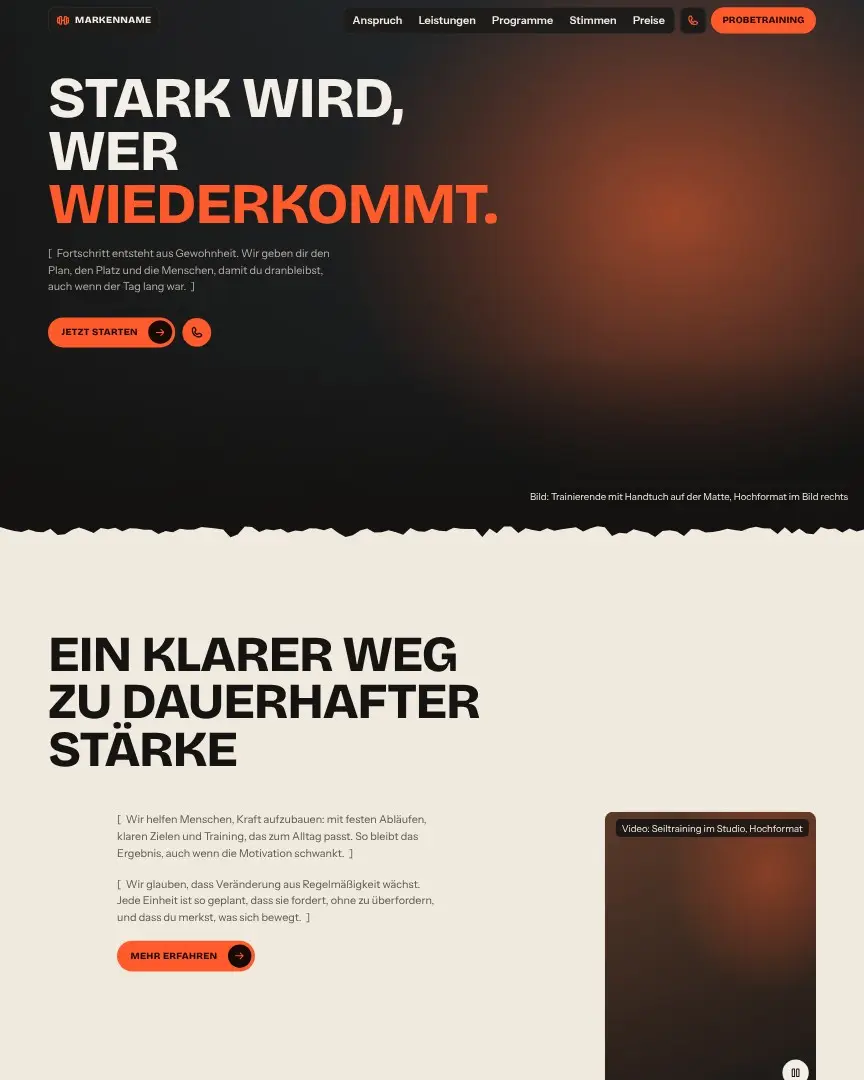
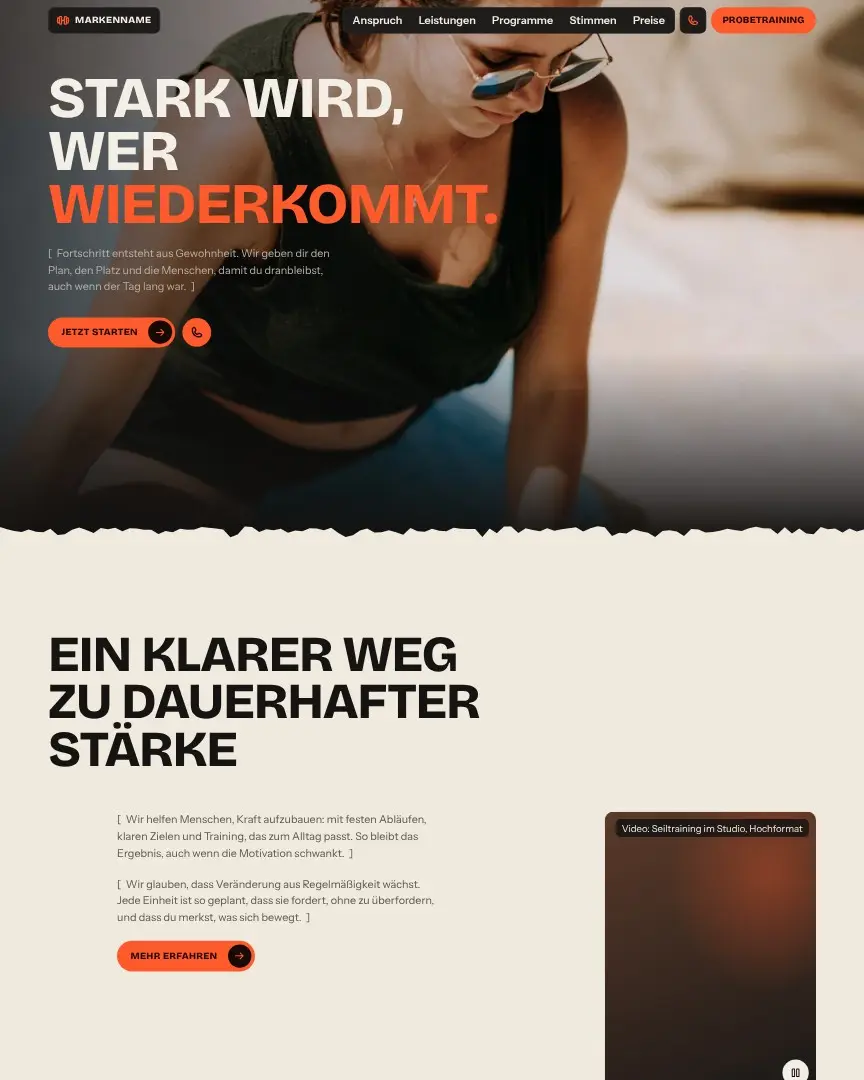
Bibliothek t55: Beispielfotos (Unsplash) eingebaut, Vorschaubilder neu erzeugt
Claude-Session: https://claude.ai/code/session_01DoGuL1bwF3ewggMgZ4Cpvd

diff --git a/skills/webdesign-conversion/assets/vorlagen/bibliothek/t55/index.html b/skills/webdesign-conversion/assets/vorlagen/bibliothek/t55/index.html
@@ -65,7 +65,7 @@
   <!-- 1. Held: Vollbild im Dunkeln, Überschrift oben links, Zackenkante unten -->
   <section class="held" id="top" aria-labelledby="h-held">
     <div class="held__grund">
-      <div class="bild held__bild bild--a" data-platzhalter="Bild: Trainierende mit Handtuch auf der Matte, Hochformat im Bild rechts" role="img" aria-label="Platzhalter für ein Foto einer Person, die nach dem Training am Hantelbereich sitzt"></div>
+      <div class="bild held__bild bild--a"><img src="bilder/frau-auf-yogamatte.webp" width="1000" height="1499" alt="Frau dehnt sich auf einer blauen Yogamatte" loading="lazy" decoding="async"></div>
       <div class="held__schleier" aria-hidden="true"></div>
     </div>
     <div class="wrap held__innen">
@@ -133,35 +133,35 @@
         <details class="prog" data-zeig open>
           <summary><span class="prog__nr" aria-hidden="true">01</span><span class="prog__titel">Kraft aufbauen, Leistung steigern</span></summary>
           <div class="prog__inhalt">
-            <div class="bild bild--b prog__bild" data-platzhalter="Bild: Athlet an der Klimmzugstange, Studiolicht" role="img" aria-label="Platzhalter für ein Foto eines Athleten an der Klimmzugstange"></div>
+            <div class="bild bild--b prog__bild"><img src="bilder/klimmzug-rueckenansicht.webp" width="1000" height="667" alt="Mann beim Klimmzug an der Stange, Rückenansicht" loading="lazy" decoding="async"></div>
             <div class="prog__fuss"><p class="klammer">Ganzkörpertraining mit steigender Last, das Muskeln aufbaut, Kraft entwickelt und die Technik festigt.</p><p class="prog__dauer"><span class="punkt" aria-hidden="true"></span>14 Wochen</p></div>
           </div>
         </details>
         <details class="prog" data-zeig>
           <summary><span class="prog__nr" aria-hidden="true">02</span><span class="prog__titel">Ausdauer stärken, Alltag leichter machen</span></summary>
           <div class="prog__inhalt">
-            <div class="bild bild--c prog__bild" data-platzhalter="Bild: Läuferin auf dem Laufband" role="img" aria-label="Platzhalter für ein Foto einer Läuferin auf dem Laufband"></div>
+            <div class="bild bild--c prog__bild"><img src="bilder/laufbaender-reihe.webp" width="1000" height="667" alt="Reihe von Laufbändern im Fitnessstudio" loading="lazy" decoding="async"></div>
             <div class="prog__fuss"><p class="klammer">Grundlagenausdauer und Intervalle, die Puls und Erholung verbessern, ohne auszubrennen.</p><p class="prog__dauer"><span class="punkt" aria-hidden="true"></span>10 Wochen</p></div>
           </div>
         </details>
         <details class="prog" data-zeig>
           <summary><span class="prog__nr" aria-hidden="true">03</span><span class="prog__titel">Beweglicher werden mit funktionellem Training</span></summary>
           <div class="prog__inhalt">
-            <div class="bild bild--d prog__bild" data-platzhalter="Bild: Kniebeuge mit Kettlebell" role="img" aria-label="Platzhalter für ein Foto einer Kniebeuge mit Kettlebell"></div>
+            <div class="bild bild--d prog__bild"><img src="bilder/kniebeuge-kettlebell.webp" width="1000" height="668" alt="Frau macht eine Kniebeuge mit einer Kettlebell" loading="lazy" decoding="async"></div>
             <div class="prog__fuss"><p class="klammer">Bewegungsqualität, Stabilität und Gelenkkontrolle, aufgebaut Schritt für Schritt.</p><p class="prog__dauer"><span class="punkt" aria-hidden="true"></span>8 Wochen</p></div>
           </div>
         </details>
         <details class="prog" data-zeig>
           <summary><span class="prog__nr" aria-hidden="true">04</span><span class="prog__titel">Rumpf kräftigen, Halt gewinnen</span></summary>
           <div class="prog__inhalt">
-            <div class="bild bild--a prog__bild" data-platzhalter="Bild: Unterarmstütz auf der Matte" role="img" aria-label="Platzhalter für ein Foto eines Unterarmstützes auf der Matte"></div>
+            <div class="bild bild--a prog__bild"><img src="bilder/unterarmstuetz-wohnzimmer.webp" width="1000" height="563" alt="Frau im Unterarmstütz auf dem Boden" loading="lazy" decoding="async"></div>
             <div class="prog__fuss"><p class="klammer">Rumpftraining für aufrechte Haltung, weniger Rückenbeschwerden und mehr Kraftübertragung.</p><p class="prog__dauer"><span class="punkt" aria-hidden="true"></span>6 Wochen</p></div>
           </div>
         </details>
         <details class="prog" data-zeig>
           <summary><span class="prog__nr" aria-hidden="true">05</span><span class="prog__titel">Grenzen verschieben, neue Stufen erreichen</span></summary>
           <div class="prog__inhalt">
-            <div class="bild bild--b prog__bild" data-platzhalter="Bild: Gewichtheber beim Reißen" role="img" aria-label="Platzhalter für ein Foto eines Gewichthebers beim Reißen"></div>
+            <div class="bild bild--b prog__bild"><img src="bilder/kreuzheben-langhantel.webp" width="1000" height="667" alt="Frau greift eine Langhantel zum Kreuzheben" loading="lazy" decoding="async"></div>
             <div class="prog__fuss"><p class="klammer">Fortgeschrittenenprogramm mit Periodisierung, Testtagen und individuellen Zielwerten.</p><p class="prog__dauer"><span class="punkt" aria-hidden="true"></span>16 Wochen</p></div>
           </div>
         </details>
@@ -173,7 +173,7 @@
   <!-- 5. Vorteile: Bild links, Überschrift, Zeilen mit Kennzahlen rechts -->
   <section class="sektion hell vorteile riss" id="vorteile" aria-labelledby="h-vorteile">
     <div class="wrap vorteile__raster">
-      <div class="bild bild--a vorteile__bild" data-platzhalter="Bild: Trainer mit Kurzhanteln, Hochformat" role="img" aria-label="Platzhalter für ein Foto eines Trainers mit Kurzhanteln" data-zeig></div>
+      <div class="bild bild--a vorteile__bild" data-zeig><img src="bilder/hanteln-sonnenlicht.webp" width="1000" height="563" alt="Reihe von Hanteln im Fitnessstudio mit Sonnenlicht" loading="lazy" decoding="async"></div>
       <div class="vorteile__text">
         <h2 id="h-vorteile" data-licht>Was Mitglieder weiterbringt</h2>
         <p class="klammer" data-zeig>Ein Umfeld mit festem Plan, ehrlichem Feedback und Menschen, die dich sehen: damit Kraft, Ausdauer und Selbstvertrauen stetig wachsen.</p>
@@ -202,7 +202,7 @@
         <figure class="wandel-karte wandel-karte--d" data-zeig>
           <figcaption>Sarah M.</figcaption>
           <blockquote class="klammer">Ich kam, um etwas zu verändern, und habe mehr bekommen: Energie, Kraft und ein neues Selbstbild.</blockquote>
-          <div class="bild bild--d" data-platzhalter="Bild: Klimmzug an der Station" role="img" aria-label="Platzhalter für ein Foto eines Klimmzugs an der Station"></div>
+          <div class="bild bild--d"><img src="bilder/klimmzug-halle-rot.webp" width="1000" height="623" alt="Mann im roten Top beim Klimmzug in der Trainingshalle" loading="lazy" decoding="async"></div>
         </figure>
         <div class="wandel-text" data-zeig>
           <p class="klammer">Echte Mitglieder, echte Ergebnisse: aufgebaut mit regelmäßigem Training, kluger Betreuung und einem Umfeld, das trägt. Jede Reise sieht anders aus.</p>
@@ -269,7 +269,7 @@
       </div>
       <div class="ratgeber__raster" data-staffel data-beispiel>
         <article class="beitrag beitrag--gross" data-zeig>
-          <div class="bild bild--c beitrag__bild" data-platzhalter="Bild: Bauchtrainer auf dem Boden" aria-hidden="true"></div>
+          <div class="bild bild--c beitrag__bild"><img src="bilder/haende-auf-matte.webp" width="800" height="533" alt="Hände auf einer Trainingsmatte" loading="lazy" decoding="async"></div>
           <div class="beitrag__text">
             <h3><a href="#ratgeber">Kraft aufbauen mit klügerem Training</a></h3>
             <p class="klammer">Wie geplante Einheiten, steigende Last und Erholung zusammen Kraft entstehen lassen, sicher und messbar.</p>
@@ -277,12 +277,12 @@
           </div>
         </article>
         <article class="beitrag" data-zeig>
-          <div class="bild bild--a beitrag__bild" data-platzhalter="Bild: Trinkflasche und Handtuch" aria-hidden="true"></div>
+          <div class="bild bild--a beitrag__bild"><img src="bilder/haende-auf-schwarzer-matte.webp" width="800" height="1200" alt="Hände und Füße auf einer schwarzen Matte" loading="lazy" decoding="async"></div>
           <h3><a href="#ratgeber">Ernährungsgewohnheiten, die Ergebnisse tragen</a></h3>
           <p class="beitrag__meta"><span class="punkt" aria-hidden="true"></span>Autorin Beispiel, TT.MM.JJJJ</p>
         </article>
         <article class="beitrag" data-zeig>
-          <div class="bild bild--d beitrag__bild" data-platzhalter="Bild: Dehnübung auf der Matte" aria-hidden="true"></div>
+          <div class="bild bild--d beitrag__bild"><img src="bilder/hund-uebung-matte.webp" width="800" height="1200" alt="Frau macht eine Übung auf der Matte neben einem Trainingsgerät" loading="lazy" decoding="async"></div>
           <h3><a href="#ratgeber">Warum Erholung langfristig mehr bringt als noch ein Satz</a></h3>
           <p class="beitrag__meta"><span class="punkt" aria-hidden="true"></span>Autor Beispiel, TT.MM.JJJJ</p>
         </article>

diff --git a/skills/webdesign-conversion/assets/vorlagen/bibliothek/t55/BILDER.md b/skills/webdesign-conversion/assets/vorlagen/bibliothek/t55/BILDER.md
@@ -1,0 +1,32 @@
+# Bilder t55
+
+Alle Fotos von Unsplash, abgerufen am 25.11.2026. Titel und Lizenz stehen so auf der Seite des Fotos (Titel von Unsplash automatisch vergeben), als Fotograf ist das Unsplash Profil angegeben, weil die Seite den Namen nur als Profillink zeigte. Lizenz ist jeweils die Unsplash Lizenz.
+
+| Datei | Platz | Foto Titel | Fotograf (Profil) | Seite | Lizenz | Abruf |
+|---|---|---|---|---|---|---|
+| frau-auf-yogamatte.webp.webp | Hero | Frau macht Übungen auf blauer Yogamatte | anniespratt | https://unsplash.com/photos/ZPipF7_quQU | Unsplash Lizenz | 25.11.2026 |
+| klimmzug-rueckenansicht.webp.webp | Programm 1 (Klimmzugstange) | Oben-ohne-Mann in schwarzen Shorts mit orangefarbener Stange | visualsbyroyalz | https://unsplash.com/photos/IZw5zLHMfd4 | Unsplash Lizenz | 25.11.2026 |
+| laufbaender-reihe.webp.webp | Programm 2 (Laufband) | Laufbänder im Fitnessstudio | rdehamer | https://unsplash.com/photos/pCT8ag1o3nU | Unsplash Lizenz | 25.11.2026 |
+| kniebeuge-kettlebell.webp.webp | Programm 3 (Kettlebell) | Eine Frau mit einem Wasserkocher in einem Fitnessstudio | meaganstonephotography | https://unsplash.com/photos/r951FqxHTao | Unsplash Lizenz | 25.11.2026 |
+| unterarmstuetz-wohnzimmer.webp.webp | Programm 4 (Unterarmstütz) | Eine Frau macht Liegestütze auf dem Boden | silverkblack | https://unsplash.com/photos/7C_Ri-7kyXc | Unsplash Lizenz | 25.11.2026 |
+| kreuzheben-langhantel.webp.webp | Programm 5 (Gewichtheber) | Eine Frau, die in einem Fitnessstudio eine Langhantel hebt | weareambitious | https://unsplash.com/photos/1PM_MY1zbF4 | Unsplash Lizenz | 25.11.2026 |
+| hanteln-sonnenlicht.webp.webp | Vorteile, Trainer mit Kurzhanteln | eine Reihe von Trainingsgeräten in einem Fitnessstudio | silentlymine | https://unsplash.com/photos/Z6CqKIP_J18 | Unsplash Lizenz | 25.11.2026 |
+| klimmzug-halle-rot.webp.webp | Wandel, Klimmzug an der Station | Mann in rotem Tanktop und schwarzen Shorts mit Mütze | gcowie | https://unsplash.com/photos/kQxzaqexhgA | Unsplash Lizenz | 25.11.2026 |
+| haende-auf-matte.webp.webp | Beitrag, Bauchtrainer auf dem Boden | Unbekannte Person streckt sich | luna_activefitness | https://unsplash.com/photos/Z-ffKGdVha4 | Unsplash Lizenz | 25.11.2026 |
+| haende-auf-schwarzer-matte.webp.webp | Beitrag, Trinkflasche und Handtuch | ein Paar Füße mit Sandalen | mathildelangevin | https://unsplash.com/photos/aBJ3A-2LJyU | Unsplash Lizenz | 25.11.2026 |
+| hund-uebung-matte.webp.webp | Beitrag, Dehnübung auf der Matte | Frau in schwarzem Sport-BH und blauer Jeans | lgnwvr | https://unsplash.com/photos/amgv9YUg-MA | Unsplash Lizenz | 25.11.2026 |
+
+## Hinweise
+
+* Das Foto bei Vorteile zeigt nur Hanteln, keinen Trainer.
+* Beitrag Trinkflasche und Handtuch: das Foto zeigt Hände und Füße auf einer Matte, weder Flasche noch Handtuch.
+* Der Titel bei Unsplash passt bei mehreren Dateien nicht zum Bild; maßgeblich ist der Alt Text.
+* Hero: Gesicht ist angeschnitten, bei Bedarf object-position anpassen.
+
+## Offen
+
+* Video Seiltraining (Platz ist ein Video, kein Foto)
+* Mitglied beim Bizepscurl, Mitglied mit Stirnband, Porträts
+* Zwei Trainierende im Gespräch
+* Vorher und Nachher
+* Trainer mit Kurzhantel, Porträt (Preise)
